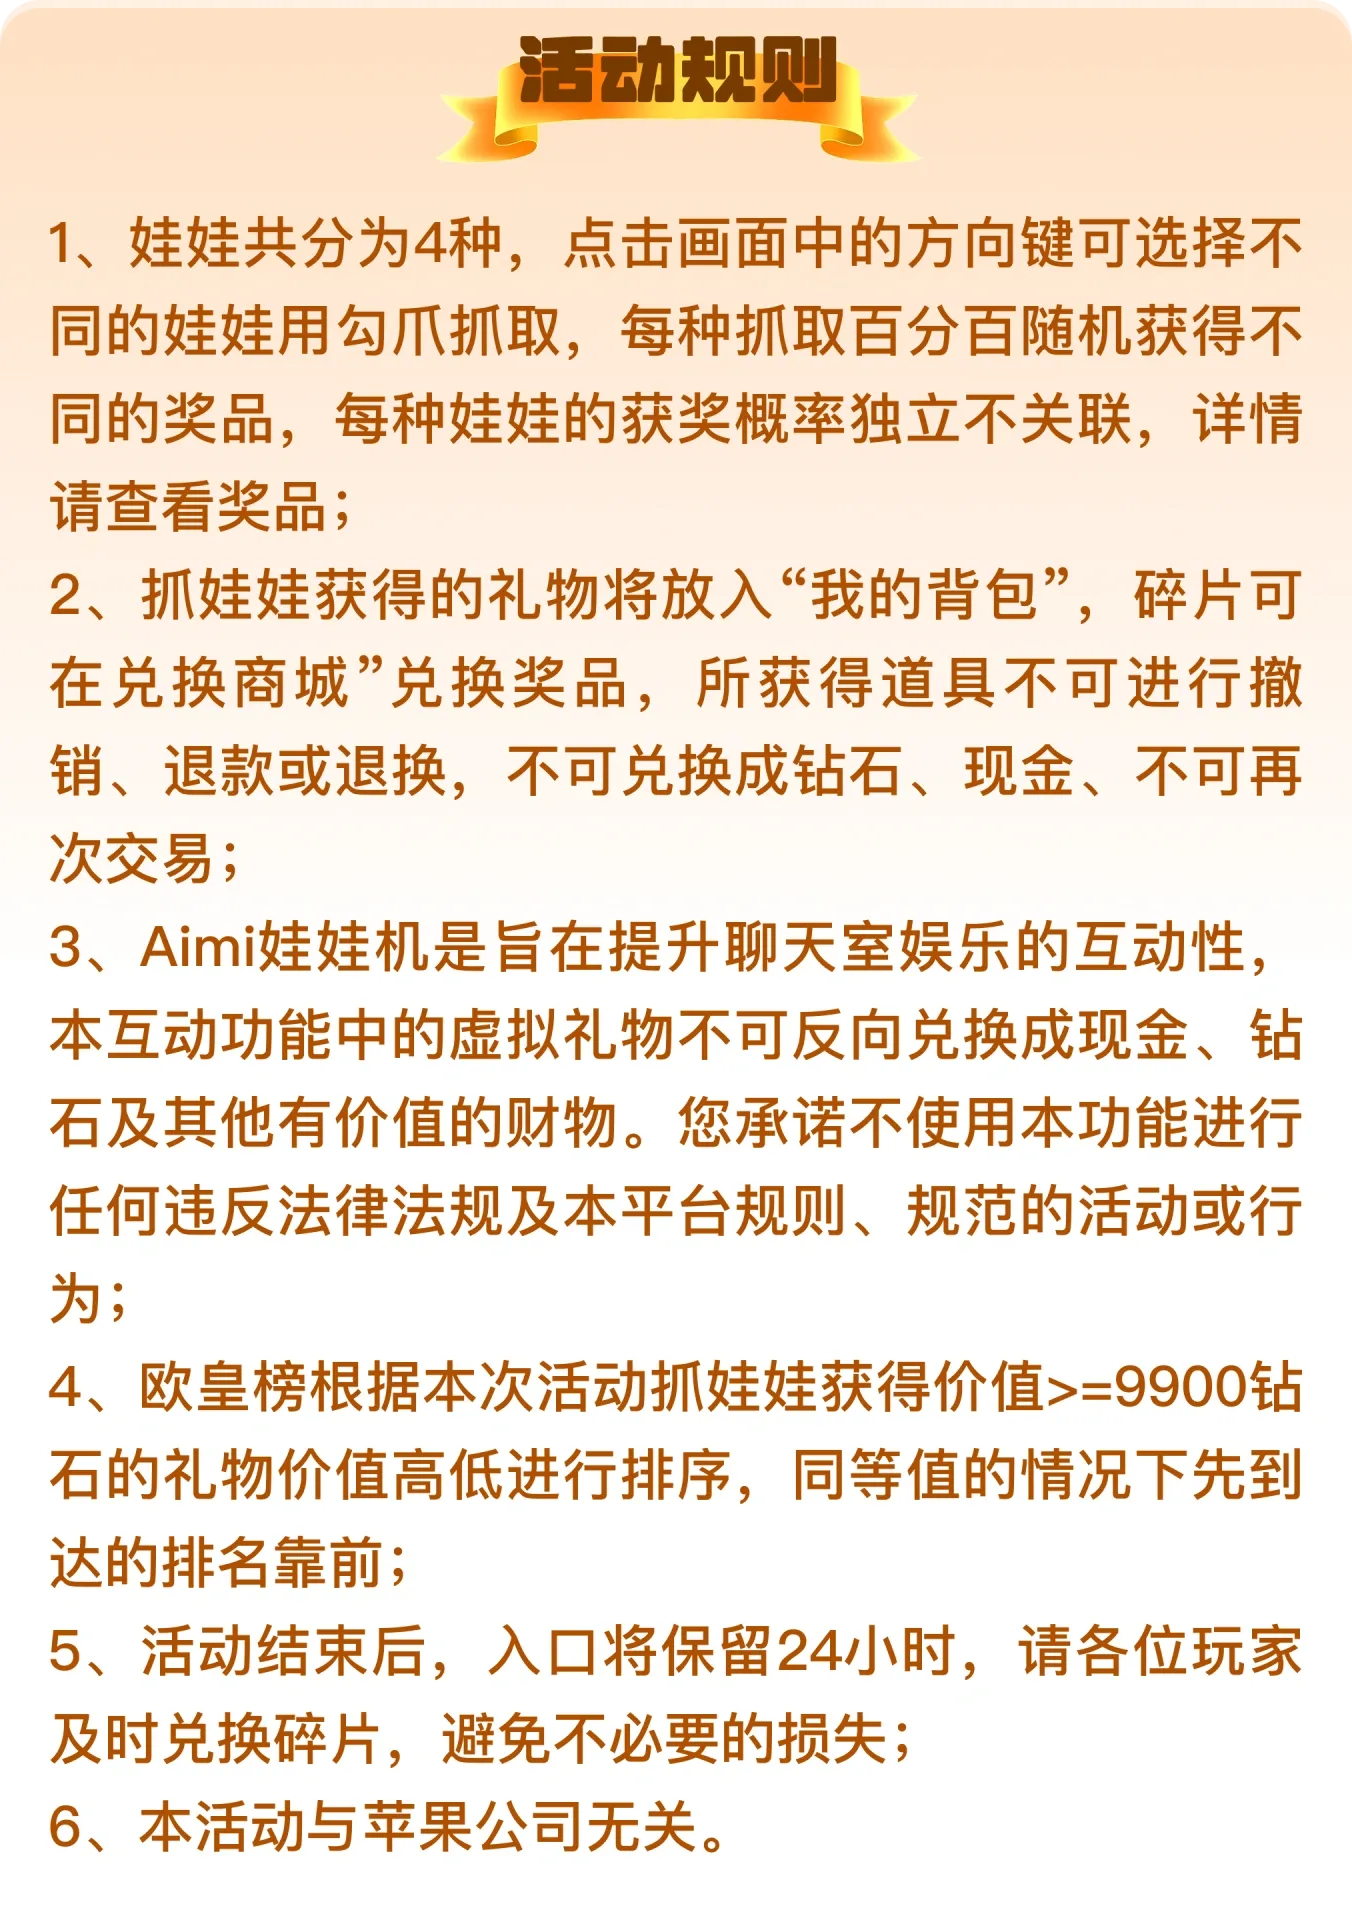
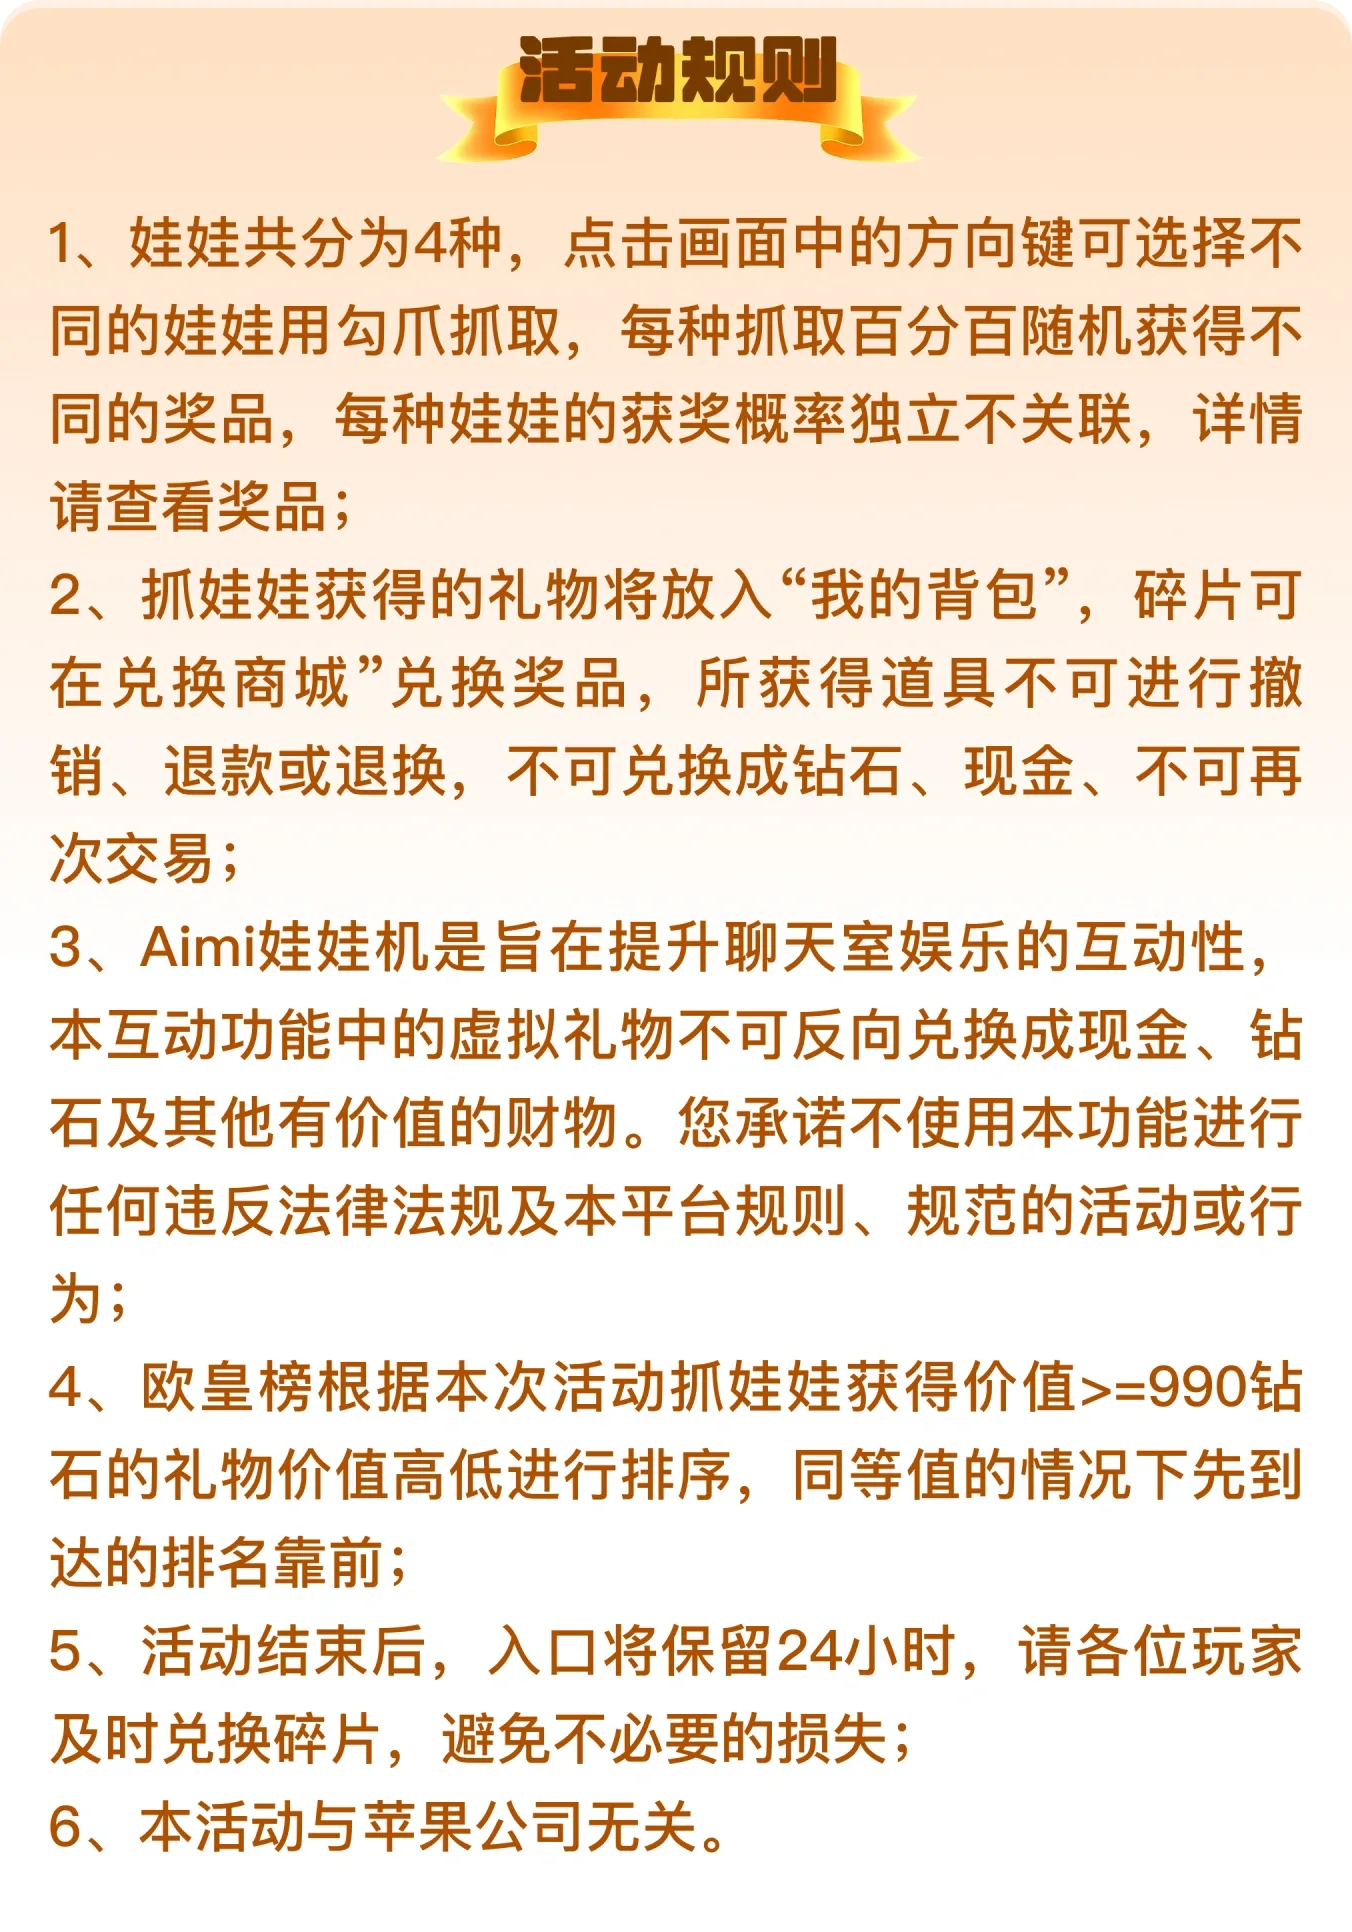
fix: '修改价格'

Changed region(s): [[0.1864, 0.6832, 0.8388, 0.7453], [0.0932, 0.6832, 0.1553, 0.7453], [0.8698, 0.7143, 0.9009, 0.7453]]

diff --git a/components/doll-activity/PrizeDialog.vue b/components/doll-activity/PrizeDialog.vue
@@ -88,7 +88,7 @@ const tabList = ref([
     maxGift: {
       rate: '0.800',
       name: '3D法拉利',
-      value: 18800,
+      value: 1880,
       pic: fll,
     },
     gifts: [
@@ -96,49 +96,49 @@ const tabList = ref([
         id: 1,
         rate: '0.400',
         name: '天马行空',
-        value: 9900,
+        value: 990,
         pic: tmxq,
       },
       {
         id: 2,
         rate: '1.000',
         name: '星星屋',
-        value: 5200,
+        value: 520,
         pic: xxw,
       },
       {
         id: 3,
         rate: '1.500',
         name: '音乐吉他',
-        value: 2100,
+        value: 210,
         pic: yyjt,
       },
       {
         id: 4,
         rate: '7.450',
         name: '星光小马',
-        value: 1000,
+        value: 100,
         pic: xgxm,
       },
       {
         id: 5,
         rate: '24.350',
         name: '魔法棒',
-        value: 600,
+        value: 60,
         pic: mfb,
       },
       {
         id: 6,
         rate: '11.500',
         name: '学生雪糕',
-        value: 300,
+        value: 30,
         pic: xsxg,
       },
       {
         id: 7,
         rate: '38.000',
         name: '小小风铃',
-        value: 100,
+        value: 10,
         pic: xxfl,
       },
       {
@@ -166,7 +166,7 @@ const tabList = ref([
     maxGift: {
       rate: '0.400',
       name: '嘉年华',
-      value: 52000,
+      value: 5200,
       pic: jnh,
     },
     gifts: [
@@ -174,49 +174,49 @@ const tabList = ref([
         id: 1,
         rate: '0.300',
         name: '天马行空',
-        value: 9900,
+        value: 990,
         pic: tmxq,
       },
       {
         id: 2,
         rate: '0.700',
         name: '星星屋',
-        value: 5200,
+        value: 520,
         pic: xxw,
       },
       {
         id: 3,
         rate: '1.500',
         name: '音乐吉他',
-        value: 2100,
+        value: 210,
         pic: yyjt,
       },
       {
         id: 4,
         rate: '6.100',
         name: '星光小马',
-        value: 1000,
+        value: 100,
         pic: xgxm,
       },
       {
         id: 5,
         rate: '19.000',
         name: '魔法棒',
-        value: 600,
+        value: 60,
         pic: mfb,
       },
       {
         id: 6,
         rate: '7.000',
         name: '学生雪糕',
-        value: 300,
+        value: 30,
         pic: xsxg,
       },
       {
         id: 7,
         rate: '59.000',
         name: '小小风铃',
-        value: 100,
+        value: 10,
         pic: xxfl,
       },
       {
@@ -244,7 +244,7 @@ const tabList = ref([
     maxGift: {
       rate: '0.150',
       name: '光年之外',
-      value: 131400,
+      value: 13140,
       pic: gnzw,
     },
     gifts: [
@@ -252,49 +252,49 @@ const tabList = ref([
         id: 1,
         rate: '0.500',
         name: '天马行空',
-        value: 9900,
+        value: 990,
         pic: tmxq,
       },
       {
         id: 2,
         rate: '0.500',
         name: '星星屋',
-        value: 5200,
+        value: 520,
         pic: xxw,
       },
       {
         id: 3,
         rate: '1.500',
         name: '音乐吉他',
-        value: 2100,
+        value: 210,
         pic: yyjt,
       },
       {
         id: 4,
         rate: '11.350',
         name: '星光小马',
-        value: 1000,
+        value: 100,
         pic: xgxm,
       },
       {
         id: 5,
         rate: '10.500',
         name: '魔法棒',
-        value: 600,
+        value: 60,
         pic: mfb,
       },
       {
         id: 6,
         rate: '5.000',
         name: '学生雪糕',
-        value: 300,
+        value: 30,
         pic: xsxg,
       },
       {
         id: 7,
         rate: '65.000',
         name: '小小风铃',
-        value: 100,
+        value: 10,
         pic: xxfl,
       },
       {
@@ -322,7 +322,7 @@ const tabList = ref([
     maxGift: {
       rate: '0.050',
       name: '航空母舰',
-      value: 334400,
+      value: 33440,
       pic: hkmj,
     },
     gifts: [
@@ -330,49 +330,49 @@ const tabList = ref([
         id: 1,
         rate: '0.700',
         name: '天马行空',
-        value: 9900,
+        value: 990,
         pic: tmxq,
       },
       {
         id: 2,
         rate: '1.000',
         name: '星星屋',
-        value: 5200,
+        value: 520,
         pic: xxw,
       },
       {
         id: 3,
         rate: '1.000',
         name: '音乐吉他',
-        value: 2100,
+        value: 210,
         pic: yyjt,
       },
       {
         id: 4,
         rate: '6.950',
         name: '星光小马',
-        value: 1000,
+        value: 100,
         pic: xgxm,
       },
       {
         id: 5,
         rate: '12.400',
         name: '魔法棒',
-        value: 600,
+        value: 60,
         pic: mfb,
       },
       {
         id: 6,
         rate: '7.400',
         name: '学生雪糕',
-        value: 300,
+        value: 30,
         pic: xsxg,
       },
       {
         id: 7,
         rate: '65.000',
         name: '小小风铃',
-        value: 100,
+        value: 10,
         pic: xxfl,
       },
       {

diff --git a/components/doll-activity/DollRuleDialog.vue b/components/doll-activity/DollRuleDialog.vue
@@ -13,7 +13,7 @@
             枫舞长安
           </div>
           <div class="gift-price">
-            18800钻石
+            1880钻石
           </div>
         </div>
         <div class="clown-l" />
